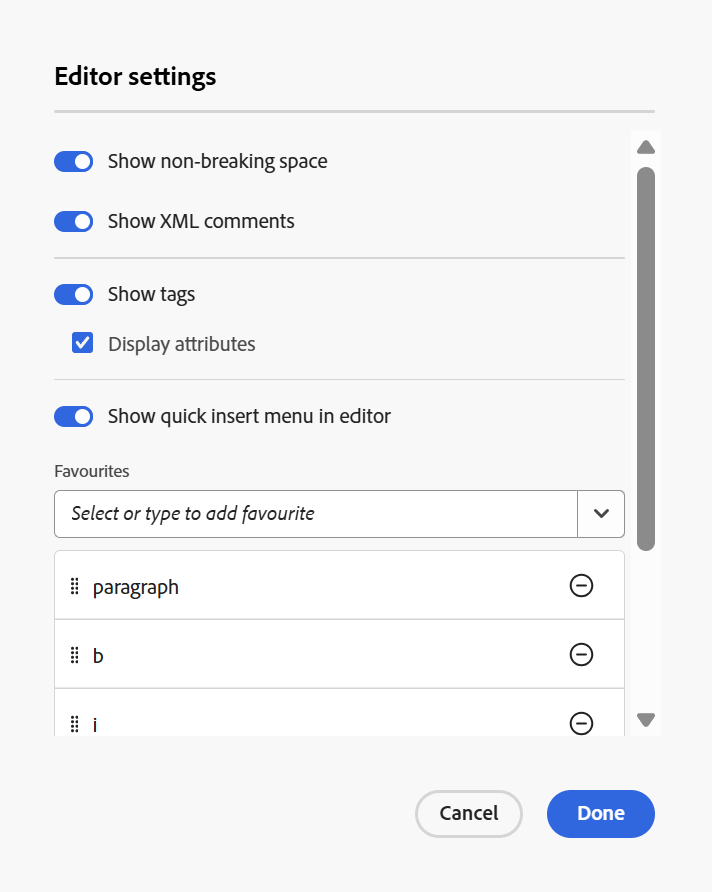
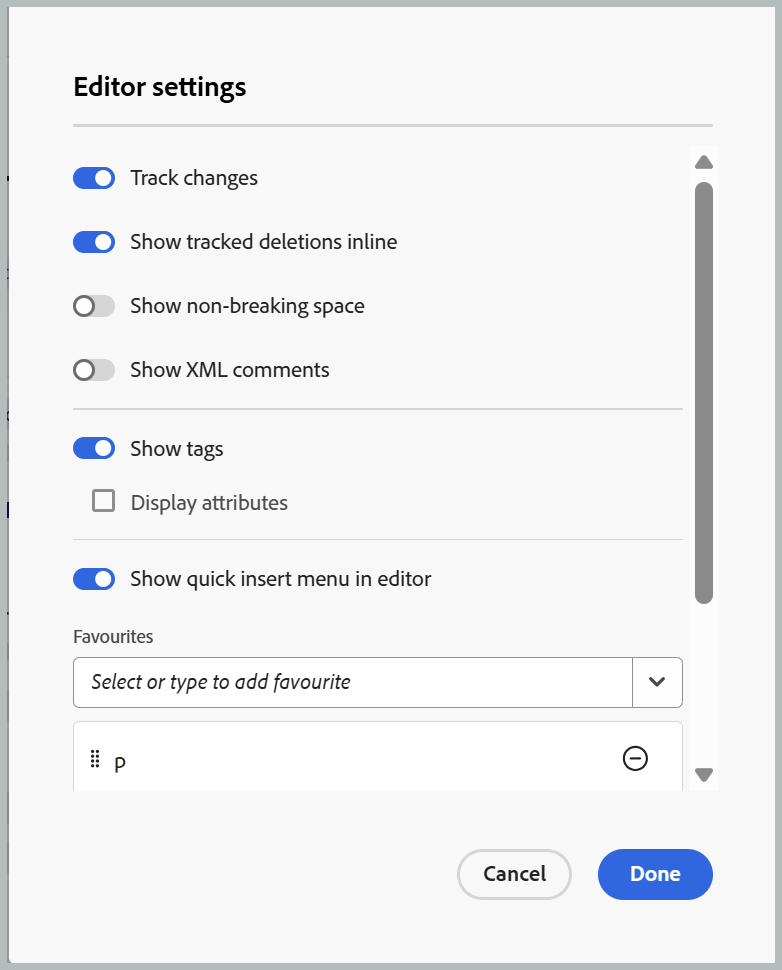
track changes

diff --git a/help/product-guide/user-guide/config-editor-settings.md b/help/product-guide/user-guide/config-editor-settings.md
@@ -22,6 +22,19 @@ You can enable or disable the following options based on your preferences:
 
 ![Editor settings](./images/editor-settings-dialog.png){width="350"}
 
+- **Track changes**: Enable this option to track the insertions and deletions you make while editing. All changes are listed in the Tracked changes panel. Inserting or deleting any content within a paragraph or list item is tracked along with its tags and listed as a change to the whole element. Multiple changes to the content within the same tag are captured together and shown as a single entry in the panel.
+
+    >[!NOTE]
+    >
+    >- To enable this capability in your environment, contact the AEM Guides Customer Success team.
+    >- When working with tables, the insertion of a row or column is tracked, but the deletion of a row or column is not tracked within the Track changes panel.
+
+    ![Editor settings](./images/track-changes-all.png){width="350"}
+
+- **Show tracked deletions inline**: Controls how deleted content is displayed in the Editor while Track changes is on. When enabled, deleted content remains visible inline, at its original position, as strikethrough text. When disabled, the deleted content is not shown. Instead, a pencil icon appears at the location where the content was removed, giving you a cleaner view of your topic. Select the pencil icon to go to the corresponding deleted content in the Tracked changes panel.
+
+    ![Editor settings track changes](./images/deletion-inline-off.png){width="350"}
+
 - **Non breaking spaces**: Enable this option to show an indicator for the non-breaking spaces while editing it in the Editor. It is visible only in the Author view for DITA topic and DITA maps
 - **XML comments**: Enables authors to view, edit, and insert XML comments directly in Author mode, for better visibility within the content. When enabled, authors can view, insert, edit, and delete XML comments directly within the content in the Author mode itself, making it easier to add contextual notes for collaborators. When disabled, XML comments are hidden in Author mode and cannot be inserted or modified from Author mode, ensuring a cleaner authoring experience for users who do not require them. You can continue to view and author XML comments in source mode using the `<!-- test comment -->` syntax.
 
